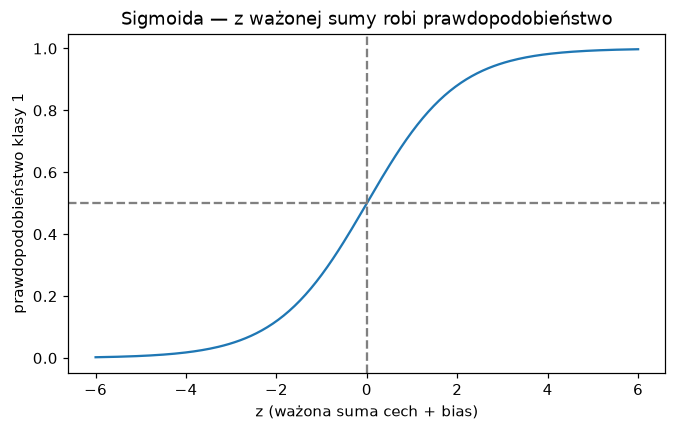
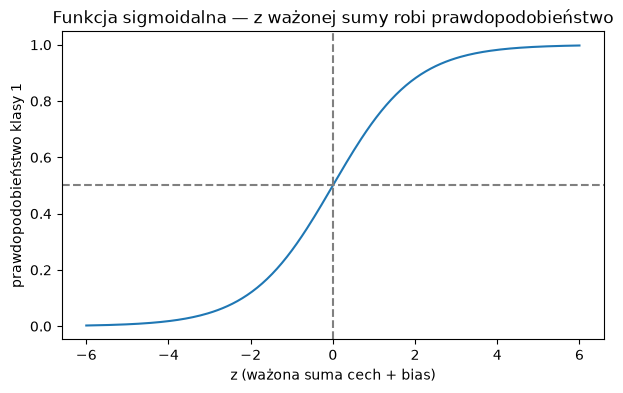
uczenie glebokie (schemat neuronu) - zajecia 4

diff --git a/docs/semestr_zimowy_2026_27/uczenie_glebokie/zajecia_4.md b/docs/semestr_zimowy_2026_27/uczenie_glebokie/zajecia_4.md
@@ -192,10 +192,10 @@ Półtorej wizyty w miesiącu to dużo poniżej średniej, a ujemna waga razy uj
 dorzuca kolejne +0.65. Wiek (51 lat, powyżej średniej) trochę ryzyko obniżył.
 Tak model „tłumaczy się" ze swojej decyzji.
 
-### Sigmoida
+### Funkcja sigmoidalna
 
-Funkcja z kroku 2, `1 / (1 + e^(−z))`, nazywa się **sigmoidą** (*sigmoid*,
-od kształtu litery S). Zobaczmy ją:
+Funkcja z kroku 2, `1 / (1 + e^(−z))`, nazywa się **funkcją sigmoidalną**
+(*sigmoid*, od kształtu litery S), w skrócie — sigmoidą. Zobaczmy ją:
 
 ```python
 import matplotlib.pyplot as plt
@@ -204,12 +204,12 @@ z = np.linspace(-6, 6, 200)
 plt.plot(z, 1 / (1 + np.exp(-z)))
 plt.axhline(0.5, color="gray", linestyle="--")
 plt.axvline(0, color="gray", linestyle="--")
-plt.title("Sigmoida — z ważonej sumy robi prawdopodobieństwo")
+plt.title("Funkcja sigmoidalna — z ważonej sumy robi prawdopodobieństwo")
 plt.xlabel("z (ważona suma cech + bias)")
 plt.ylabel("prawdopodobieństwo klasy 1")
 ```
 
-![Wykres sigmoidy](obrazki/zajecia_4_sigmoida.png)
+![Wykres funkcji sigmoidalnej](obrazki/zajecia_4_sigmoida.png)
 
 | z | p | Znaczenie |
 |---|---|---|
@@ -228,15 +228,7 @@ odpowiada dokładnie z = 0.
 
 Narysujmy to, co właśnie policzyliśmy:
 
-```text
-  wejścia            wagi
-
-  wiek        ───  × −0.16  ──┐
-  oplata_mies ───  × +0.35  ──┤
-  staz_mies   ───  × −0.61  ──┼──▶  Σ + bias  ──▶  sigmoida  ──▶  p = 0.531
-  wizyty_mies ───  × −0.85  ──┤       (z)        (aktywacja)
-  zgloszenia  ───  × +0.42  ──┘
-```
+![Schemat sztucznego neuronu](obrazki/zajecia_4_neuron.png)
 
 To jest **sztuczny neuron**. Dostaje kilka liczb na wejściu, każdą mnoży przez
 jej wagę, sumuje, dodaje bias i przepuszcza wynik przez **funkcję aktywacji**.
